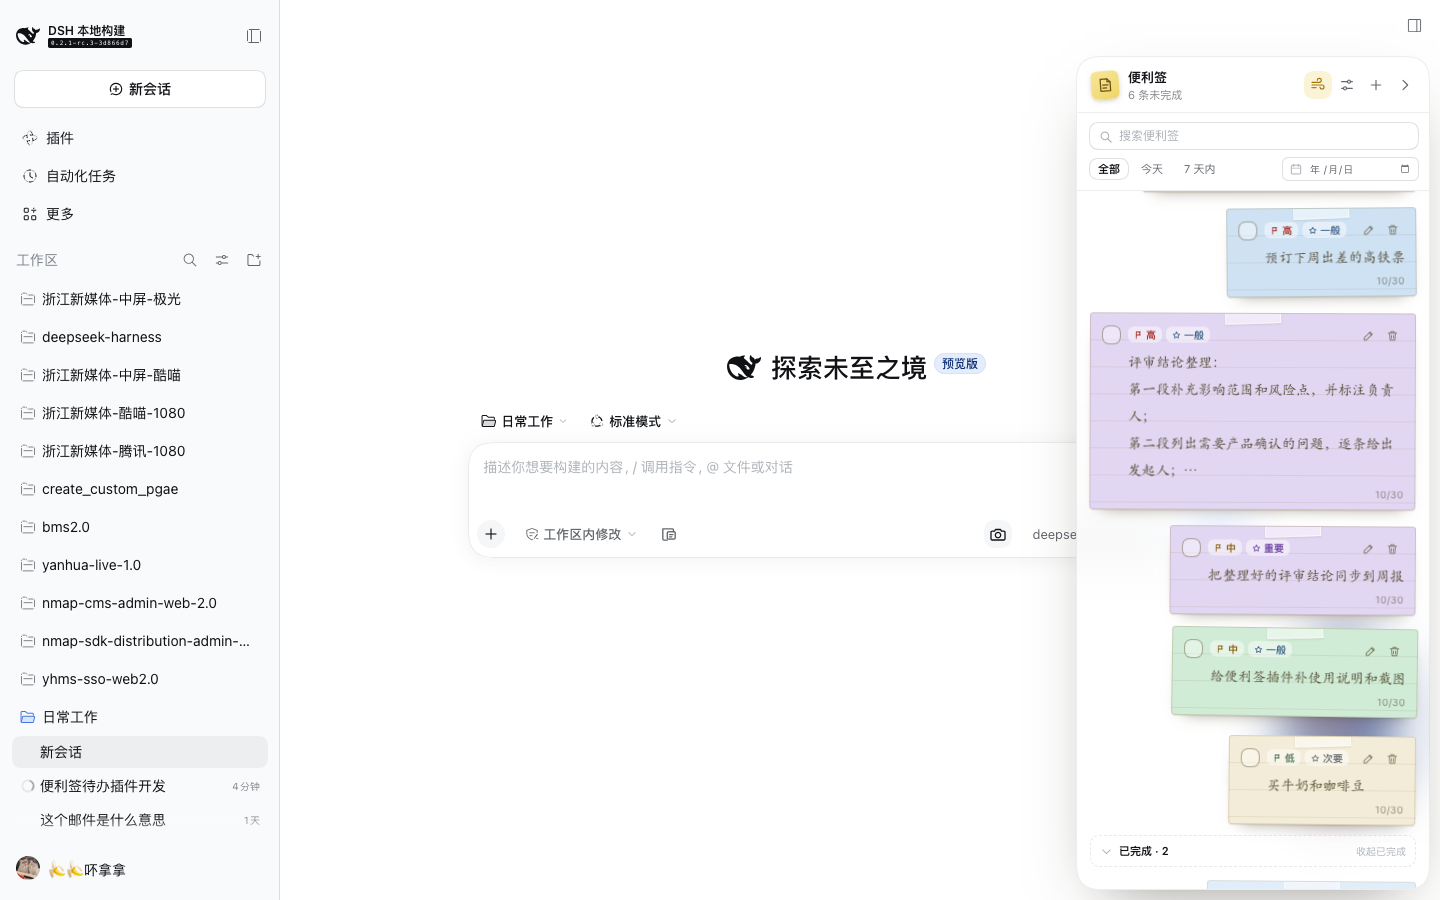
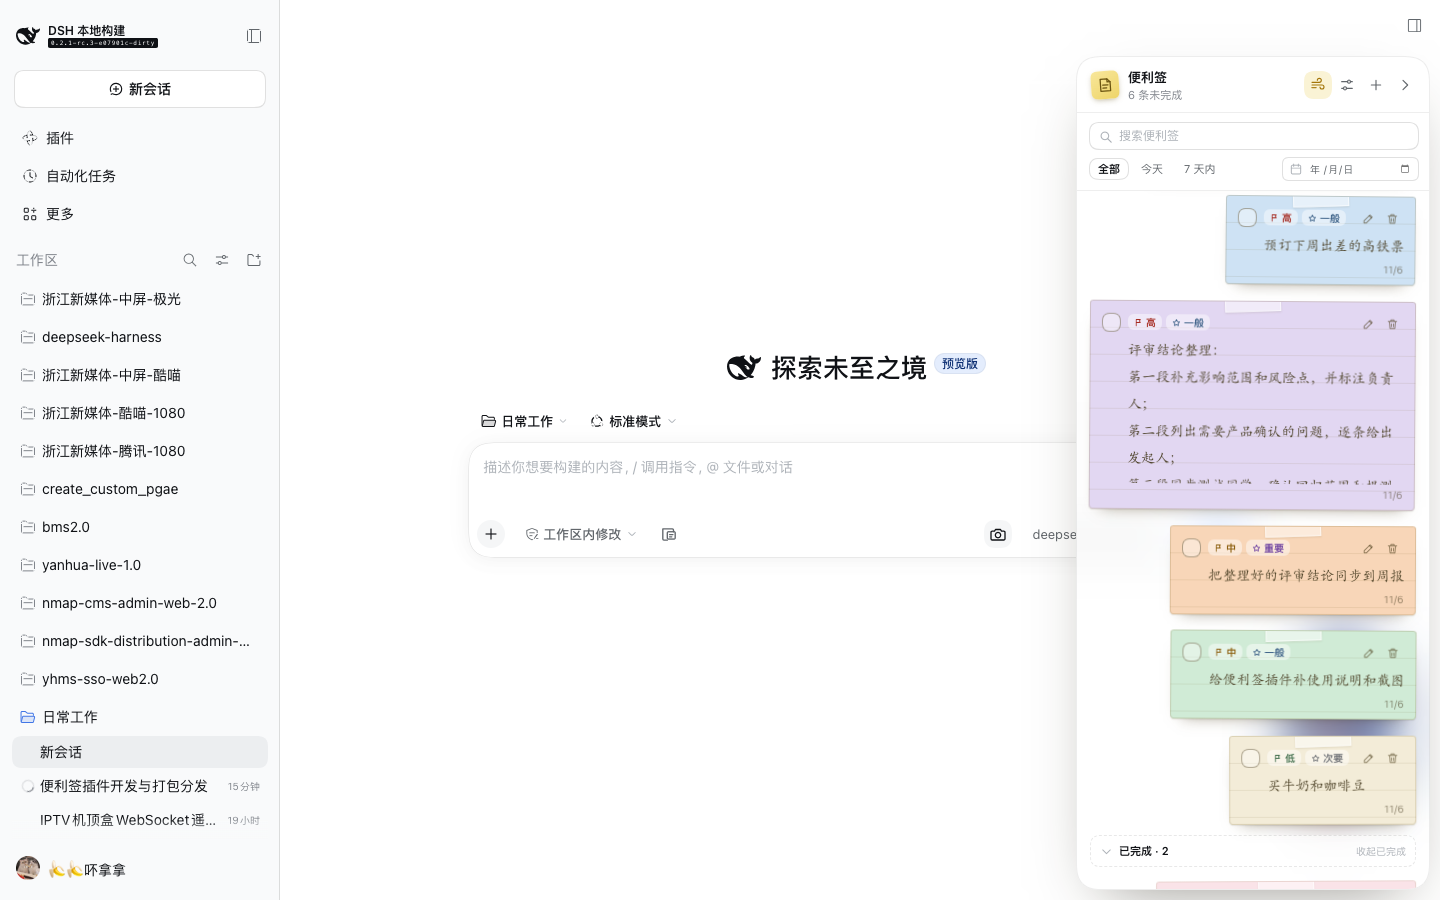
fix(plugins): scroll long sticky note content inside the card

diff --git a/plugins/dsh-sticky-notes/client.js b/plugins/dsh-sticky-notes/client.js
@@ -1445,7 +1445,10 @@ window.__ModuleLoader__.load({
 .dsh-sticky-note-actions .dsh-sticky-icon-btn svg { width: 13px; height: 13px; }
 @media (hover: hover) { .dsh-sticky-note-actions .dsh-sticky-icon-btn:hover { background: rgba(255, 255, 255, 0.55); color: #3f371c; } }
 .dsh-sticky-note-actions .dsh-sticky-icon-btn.dsh-sticky-armed { color: #a52a20; background: rgba(255, 255, 255, 0.6); }
-.dsh-sticky-note-text { display: -webkit-box; -webkit-box-orient: vertical; -webkit-line-clamp: 5; line-clamp: 5; max-width: 100%; margin: 2px 0 0; padding-left: 26px; overflow: hidden; font-family: 'Kaiti SC', 'STKaiti', 'KaiTi', 'Segoe Print', 'Comic Sans MS', var(--dsw-font-family, sans-serif); font-size: 14px; line-height: 27px; white-space: pre-wrap; overflow-wrap: anywhere; }
+.dsh-sticky-note-text { box-sizing: border-box; max-width: 100%; max-height: max(81px, calc(25vh - 78px)); margin: 2px 0 0; padding-left: 26px; overflow-y: auto; overflow-x: hidden; scrollbar-width: thin; scrollbar-color: rgba(70, 55, 20, 0.32) transparent; font-family: 'Kaiti SC', 'STKaiti', 'KaiTi', 'Segoe Print', 'Comic Sans MS', var(--dsw-font-family, sans-serif); font-size: 14px; line-height: 27px; white-space: pre-wrap; overflow-wrap: anywhere; }
+.dsh-sticky-note-text::-webkit-scrollbar { width: 6px; }
+.dsh-sticky-note-text::-webkit-scrollbar-track { background: transparent; }
+.dsh-sticky-note-text::-webkit-scrollbar-thumb { border-radius: 999px; background: rgba(70, 55, 20, 0.32); }
 .dsh-sticky-note-foot { display: flex; justify-content: flex-end; margin-top: 3px; padding-left: 26px; }
 .dsh-sticky-note-date { font-size: 10px; line-height: 14px; color: rgba(69, 58, 31, 0.55); letter-spacing: 0.2px; }
 /* One shared wind cycle: every card uses the same duration and phase, so a full board sways together. */
